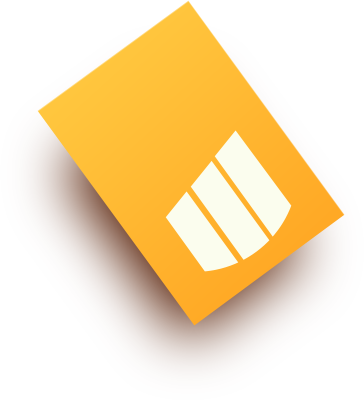
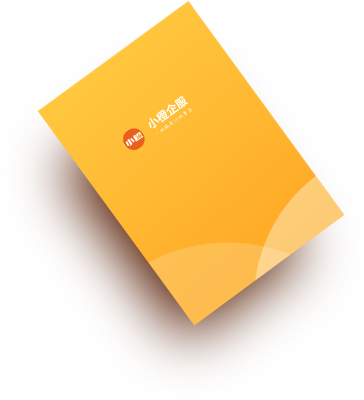
pc首页

Changed region(s): [[0.3929, 0.33, 0.9368, 0.81], [0.3324, 0.24, 0.5137, 0.39]]

diff --git a/www/templates/pc/index.html b/www/templates/pc/index.html
@@ -36,7 +36,7 @@
 
     <!-- logo -->
     <div class="logo-wrap">
-        <img class="logo" src="{{MEDIA_URL}}img/index/logo.png">
+        <img class="logo" src="{{MEDIA_URL}}img/logo.png">
         <div class="text">
             <img class="t1" src="{{MEDIA_URL}}img/index/t1.png">
             <img class="t2" src="{{MEDIA_URL}}img/index/t2.png">

diff --git a/static/css/site/index_pc.css b/static/css/site/index_pc.css
@@ -212,9 +212,9 @@ body,html{
 }
 .logo{
     position: absolute;
-    left: 0;
-    top: 2px;
-    width: 50px;
+    left: -3px;
+    top: -3px;
+    width: 55px;
     -webkit-transform: translateX(55px);
             transform: translateX(55px);
     -webkit-animation: logoLeft 1s both;
